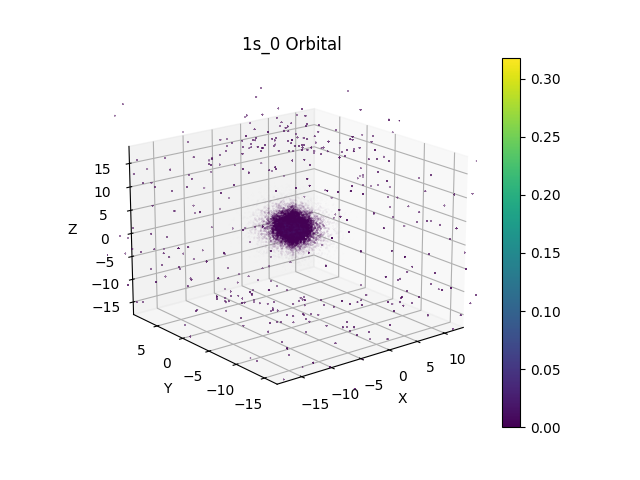
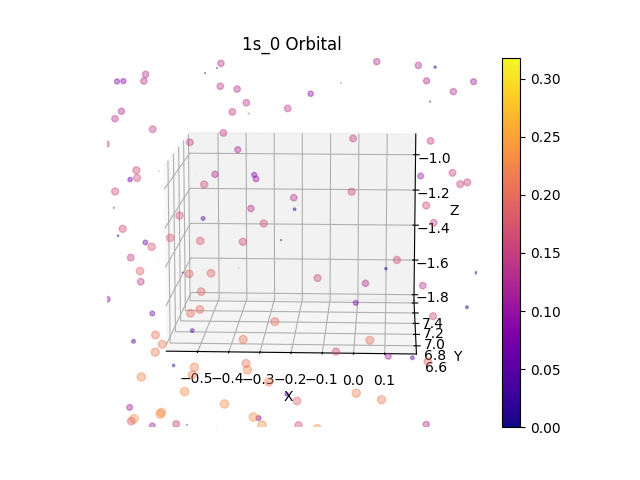
한글화

diff --git a/main.py b/main.py
@@ -5,7 +5,8 @@ from mpl_toolkits.mplot3d import Axes3D
 # Constants
 a0 = 1  # Bohr radius, for simplicity, set to 1
 
-# Define the angular part
+# 각 부분 정의
+# GPT 왈 : 이 함수는 궤도 각운동량 양자수 𝑙, 자기 양자수 𝑚 극좌표계의 각도 𝜃 및 𝜙를 입력받아 각 부분을 계산합니다. 이는 구면 조화 함수 𝑌𝑙𝑚를 계산하는 과정입니다.
 def angular_part(l, m, theta, phi):
     if l == 0:  # s-orbital
         return (1 / (4 * np.pi))**0.5
@@ -45,7 +46,7 @@ def angular_part(l, m, theta, phi):
     else:
         raise ValueError(f"Unsupported l={l} or m={m}")
 
-# Define the radial part
+# 방사 부분 정의
 def radial_part(n, l, r):
     if n == 1 and l == 0:
         return 2 * (1 / a0)**(3/2) * np.exp(-r / a0)
@@ -65,19 +66,19 @@ def radial_part(n, l, r):
         raise ValueError(f"Unsupported n={n} or l={l}")
 
 
-# Calculate the probability density
+# 확률 밀도 함수 계산
 def probability_density(n, l, m, r, theta, phi):
     R = radial_part(n, l, r)
     Y = angular_part(l, m, theta, phi)
     return (R * Y)**2
 
-# Generate random points in spherical coordinates
+# 무작위 점 생성 후 구 좌표계에서 분포시킴
 N = 10000
 r = np.random.exponential(scale=5*a0, size=N)
 theta = np.random.uniform(0, np.pi, N)
 phi = np.random.uniform(0, 2*np.pi, N)
 
-# Convert spherical coordinates to Cartesian coordinates
+# 구 좌표를 직교 좌표로 변환
 x = r * np.sin(theta) * np.cos(phi)
 y = r * np.sin(theta) * np.sin(phi)
 z = r * np.cos(theta)
@@ -92,7 +93,7 @@ def plot_orbital(n, l, m):
     # Plot the points
     fig = plt.figure()
     ax = fig.add_subplot(111, projection='3d')
-    sc = ax.scatter(x, y, z, c=prob_density, cmap='viridis', s=sizes)
+    sc = ax.scatter(x, y, z, c=prob_density, cmap='plasma', s=sizes)
     
     ax.set_xlabel('X')
     ax.set_ylabel('Y')
@@ -101,7 +102,7 @@ def plot_orbital(n, l, m):
     
     plt.colorbar(sc)
     plt.show()
-    fig.savefig(f'image/plot_orbital({n}_{l}_{m}).png')
+    # fig.savefig(f'image/plot_orbital({n}_{l}_{m}).png')
 
 # Plot s, p, d orbitals
 plot_orbital(1, 0, 0)  # 1s orbital
